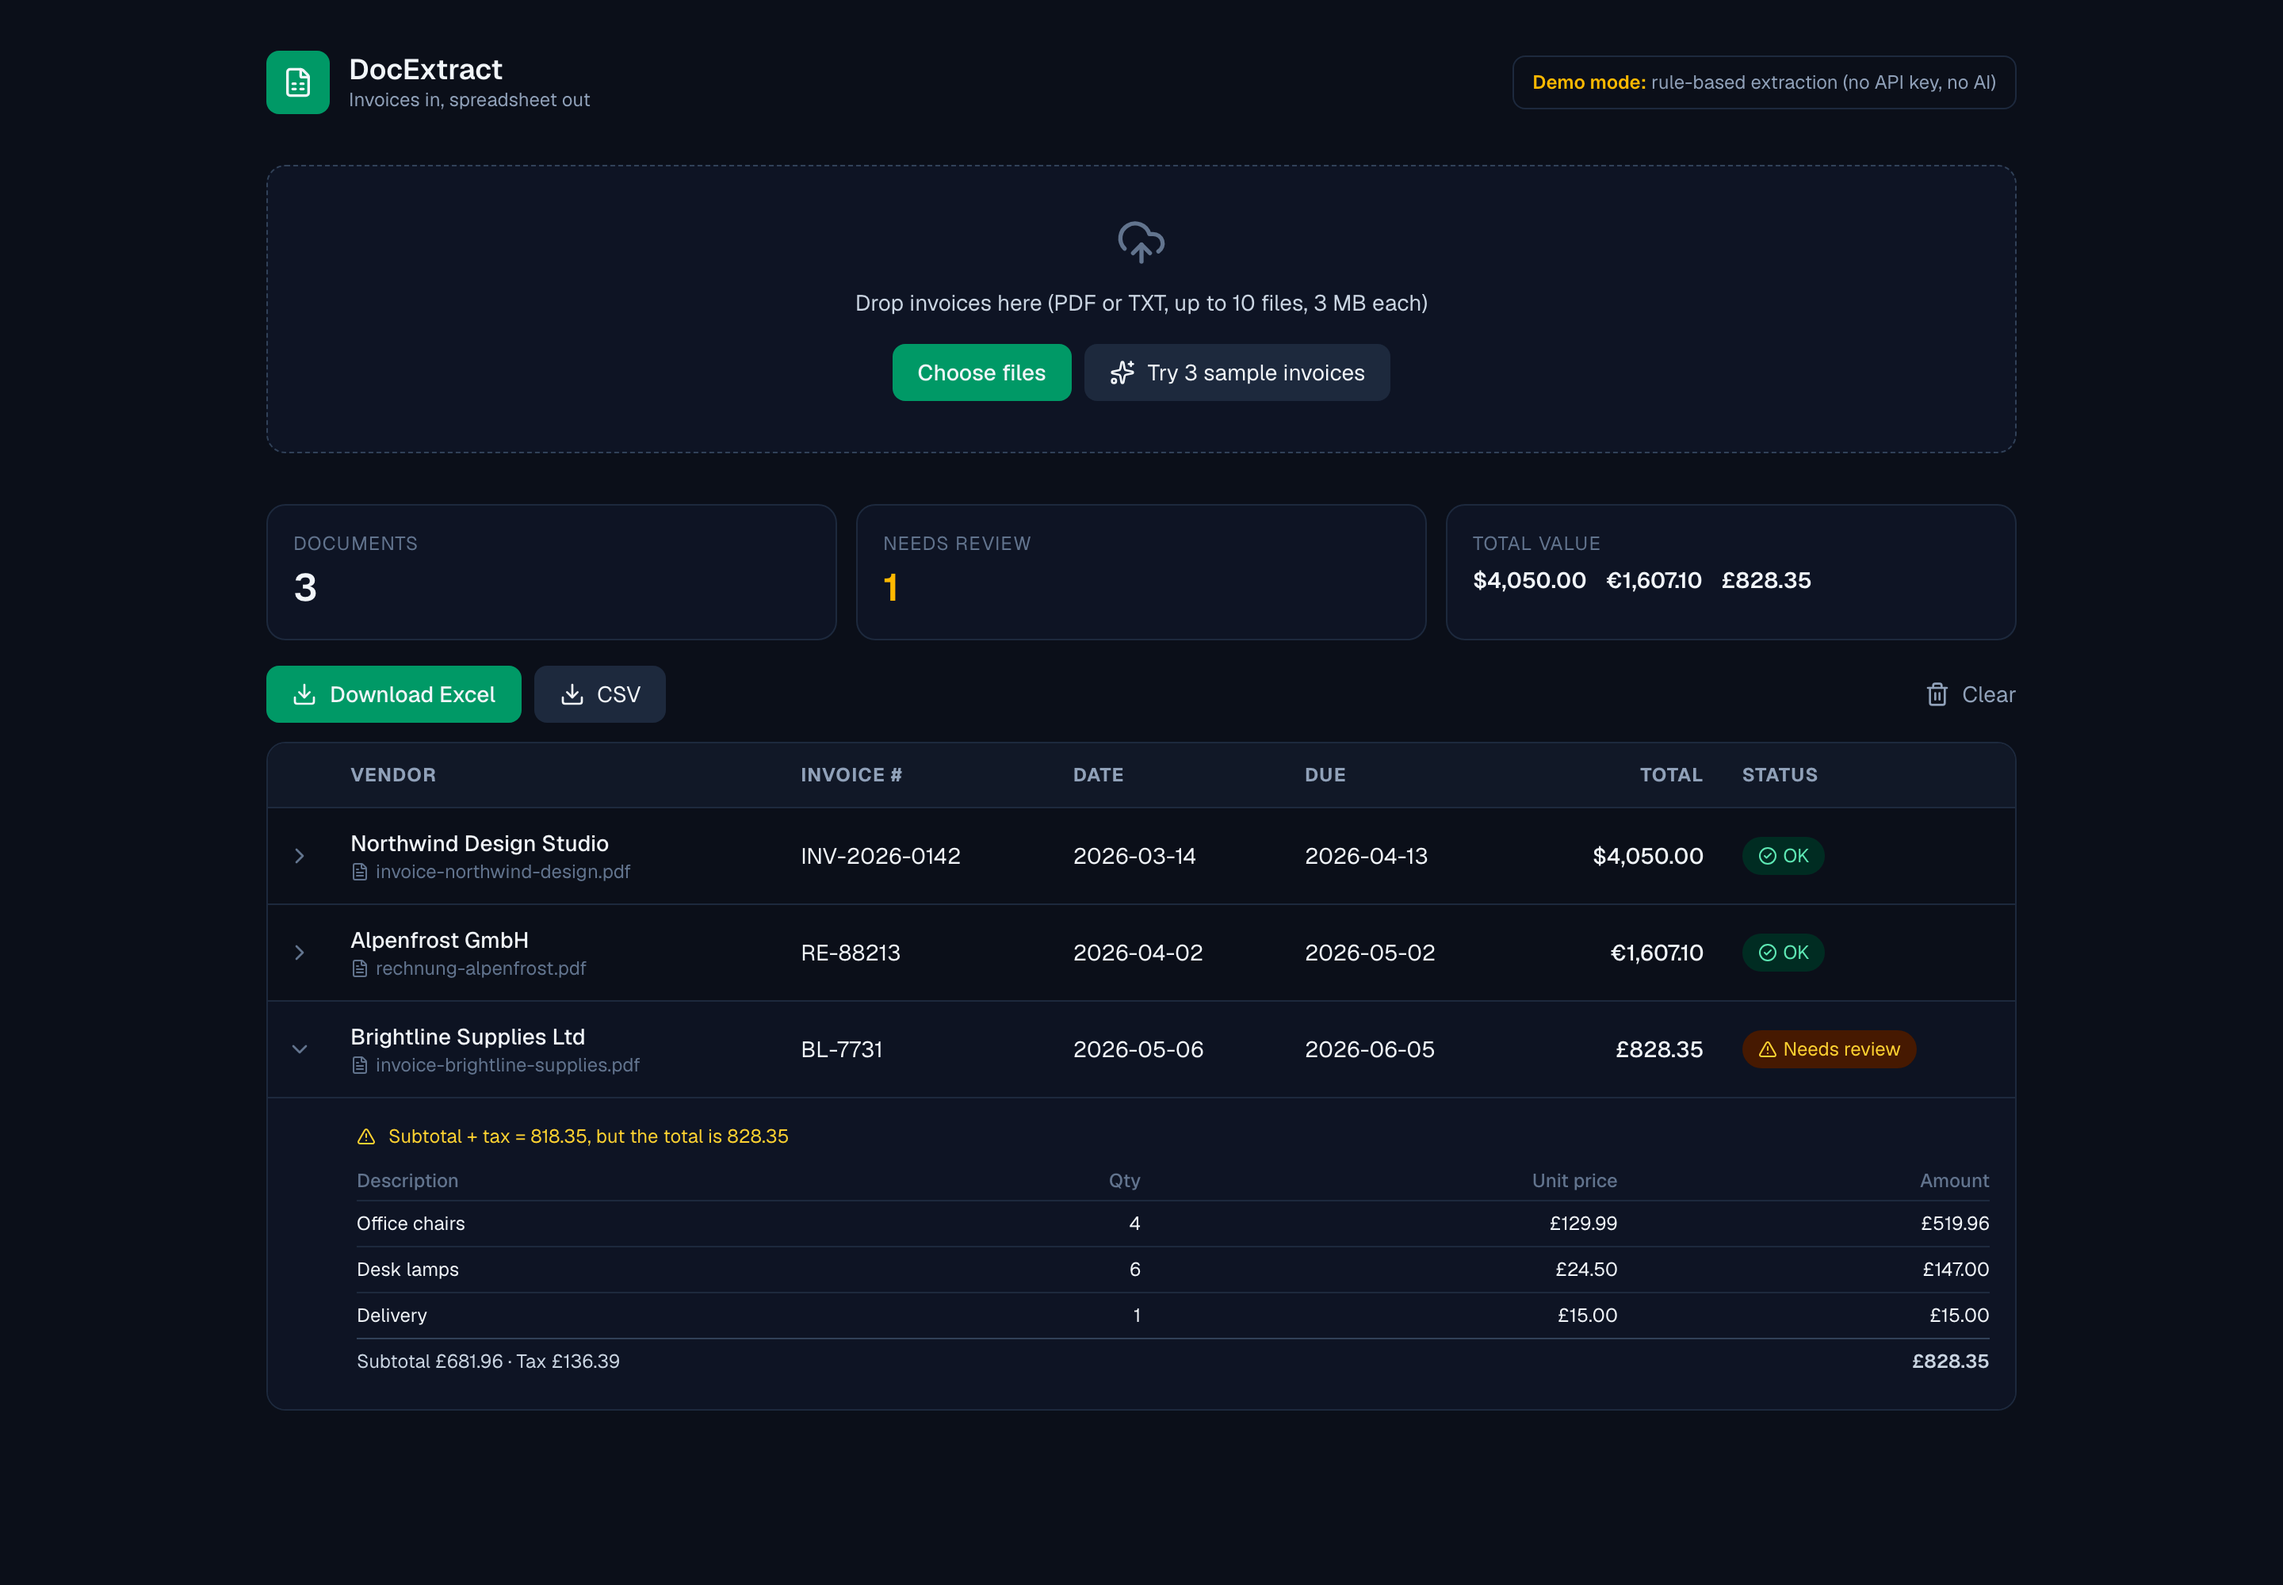
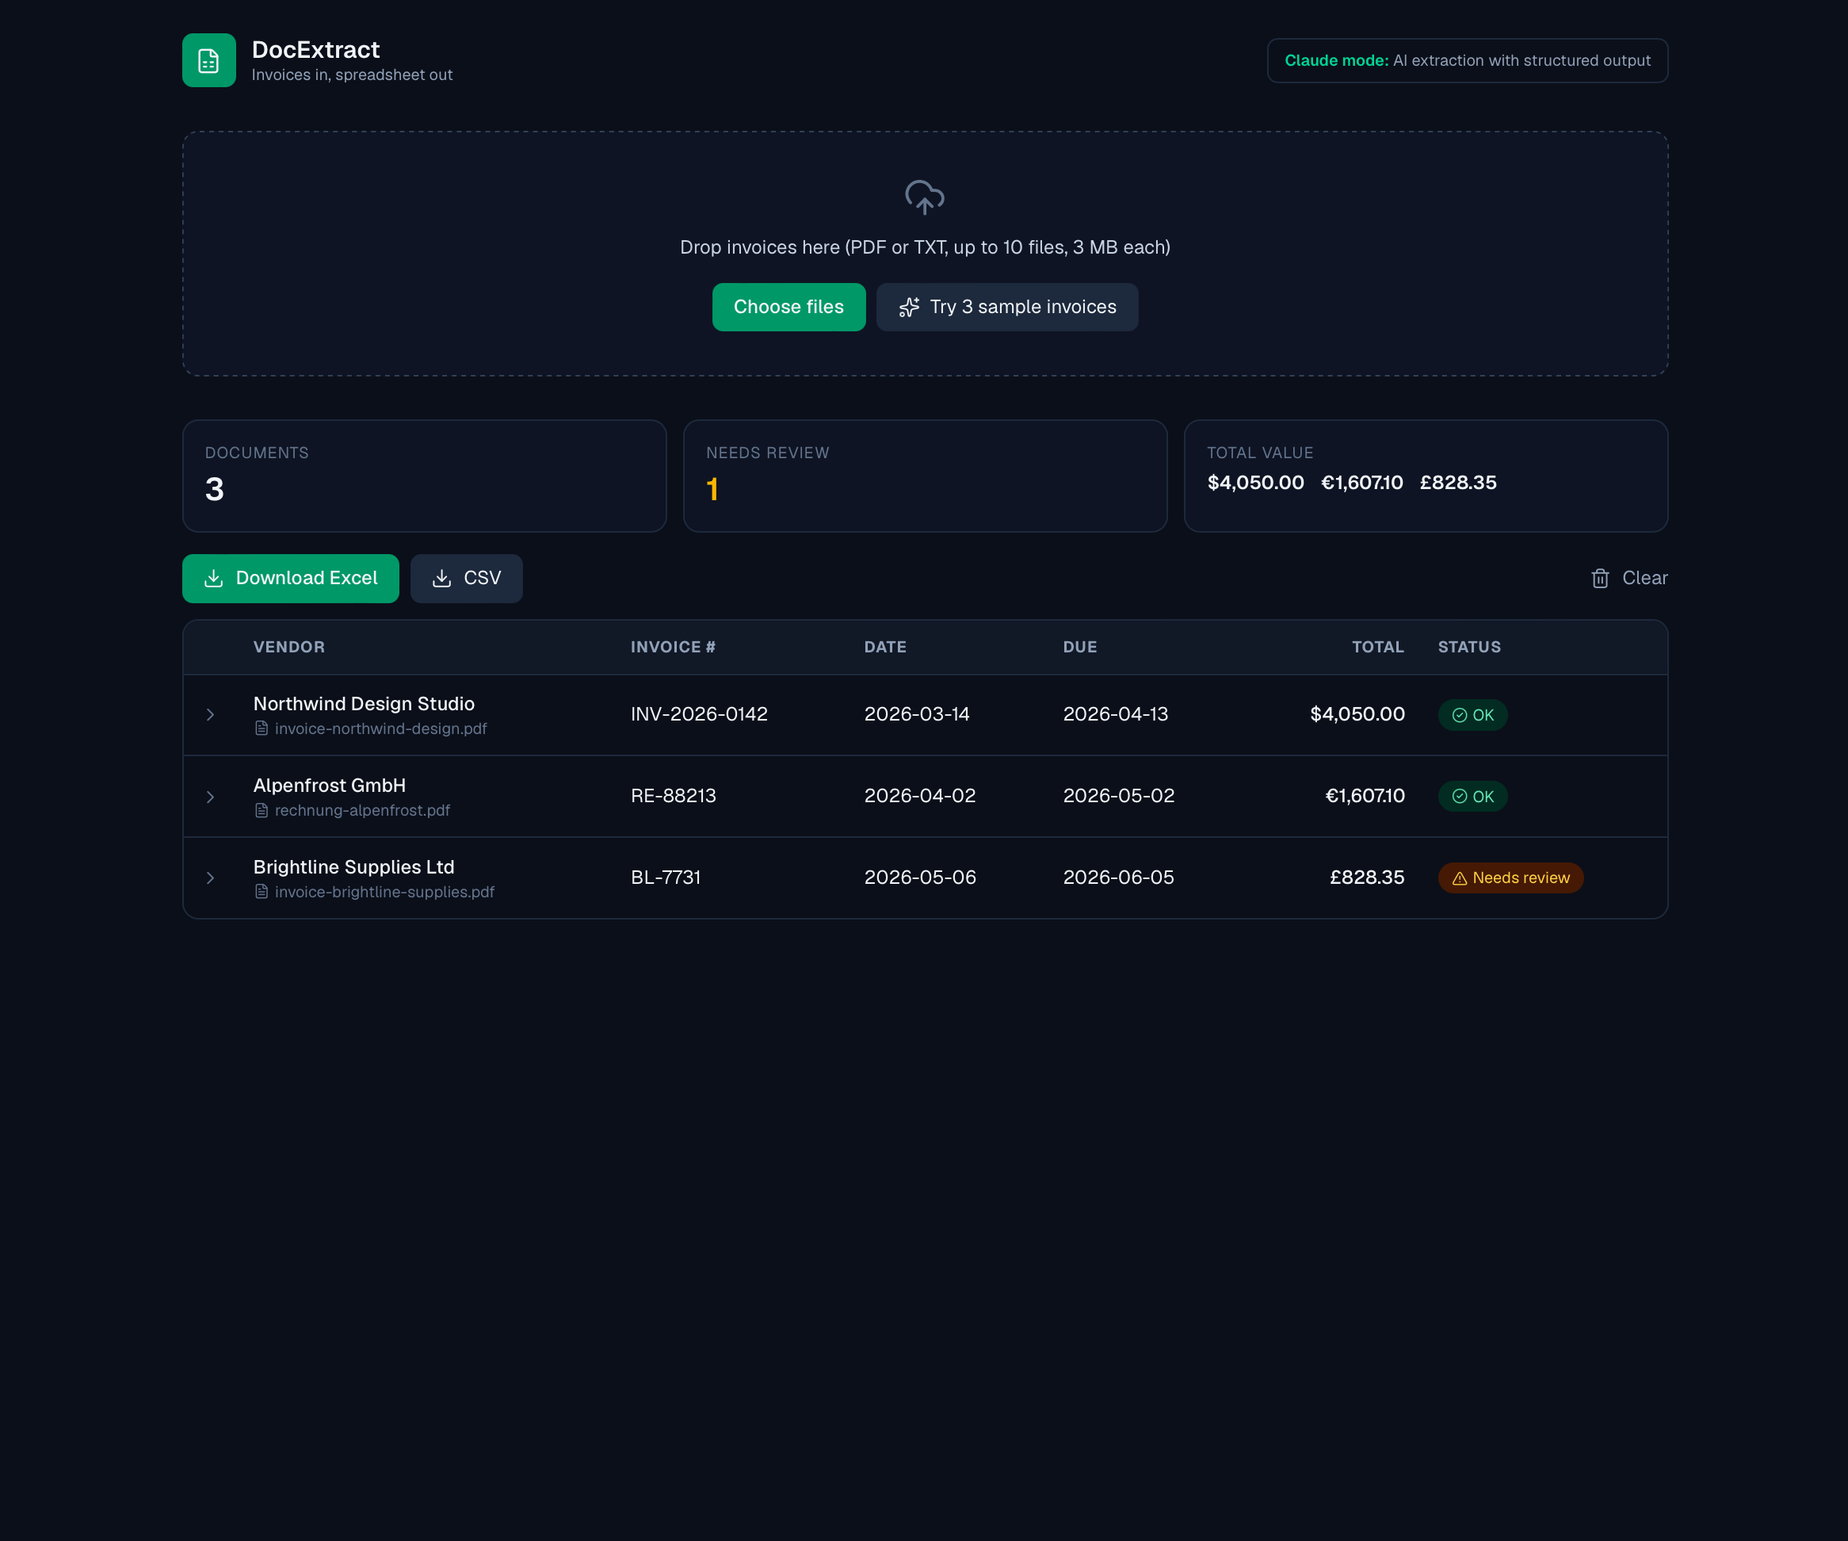
docs: update screenshot with Claude-mode results

diff --git a/README.md b/README.md
@@ -4,7 +4,7 @@ Upload invoices (PDF or TXT), extract the key fields automatically, check the ma
 
 **Live demo:** [ai-invoice-data-extractor.vercel.app](https://ai-invoice-data-extractor.vercel.app)
 
-![DocExtract showing three extracted invoices, one flagged for review](docs/screenshot.png)
+![DocExtract in Claude mode: three extracted invoices, one flagged for review](docs/screenshot.png)
 
 > **Demo note:** the app runs without any API key in **demo mode**, using rule-based extraction (pattern matching, no AI) that handles common invoice layouts. Add an `ANTHROPIC_API_KEY` and extraction is done by Claude with schema-enforced JSON output, which also handles unusual layouts and languages.
 
